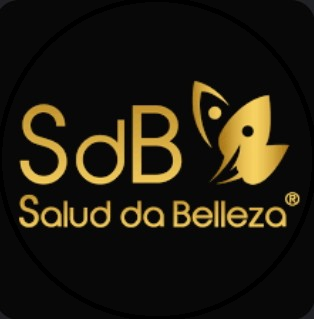
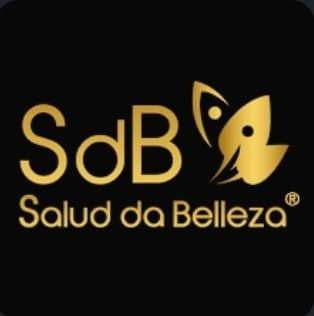
carrito

diff --git a/inicio.css b/inicio.css
@@ -6,11 +6,11 @@ body {
     line-height: 1.6;
 }
 
-/* Header */
+/* logo y inicio */
 header {
-    background-color: #f4a261;
-    color: #fff;
-    padding: 10px 20px;
+    background-color: #000000fa;
+    color: #f7bf57;
+    padding: 30px 40px;
     text-align: center;
     box-shadow: 0 2px 5px rgba(0, 0, 0, 0.1);
 }
@@ -22,8 +22,8 @@ header .header-container {
 }
 
 header .logo {
-    height: 50px;
-    margin-right: 15px;
+    height: 80px;
+    margin-right: 35px;
 }
 
 header h1 {
@@ -146,4 +146,75 @@ footer {
     text-align: center;
     padding: 10px;
     margin-top: 20px;
+}
+
+/* Carrito */
+.cart {
+    position: absolute;
+    top: 10px;
+    right: 20px;
+    display: flex;
+    align-items: center;
+    gap: 5px;
+    color: #fff;
+}
+
+.cart-icon {
+    width: 30px;
+    cursor: pointer;
+}
+
+.cart-count {
+    background-color: #2a9d8f;
+    color: #fff;
+    font-size: 14px;
+    padding: 5px 10px;
+    border-radius: 50%;
+}
+
+/* Productos */
+.products {
+    padding: 20px;
+    text-align: center;
+}
+
+.product-list {
+    display: flex;
+    flex-wrap: wrap;
+    gap: 20px;
+    justify-content: center;
+}
+
+.product {
+    border: 1px solid #ddd;
+    border-radius: 10px;
+    padding: 10px;
+    width: 200px;
+    text-align: center;
+    box-shadow: 0 2px 5px rgba(0, 0, 0, 0.1);
+    transition: transform 0.3s;
+}
+
+.product img {
+    width: 100%;
+    height: auto;
+    border-radius: 10px;
+}
+
+.product:hover {
+    transform: scale(1.05);
+}
+
+.add-to-cart {
+    background-color: #4CAF50;
+    color: #fff;
+    border: none;
+    padding: 10px 20px;
+    border-radius: 5px;
+    cursor: pointer;
+    transition: background-color 0.3s;
+}
+
+.add-to-cart:hover {
+    background-color: #3e8e41;
 }

diff --git a/carrito.js b/carrito.js
@@ -1,0 +1,14 @@
+carrito.js
+document.addEventListener("DOMContentLoaded", () => {
+    const cartCountElement = document.querySelector(".cart-count");
+    let cartCount = 0;
+
+    // Manejar clics en botones de "Agregar al Carrito"
+    document.querySelectorAll(".add-to-cart").forEach(button => {
+        button.addEventListener("click", () => {
+            cartCount++;
+            cartCountElement.textContent = cartCount;
+            alert(`${button.dataset.product} agregado al carrito!`);
+        });
+    });
+});
